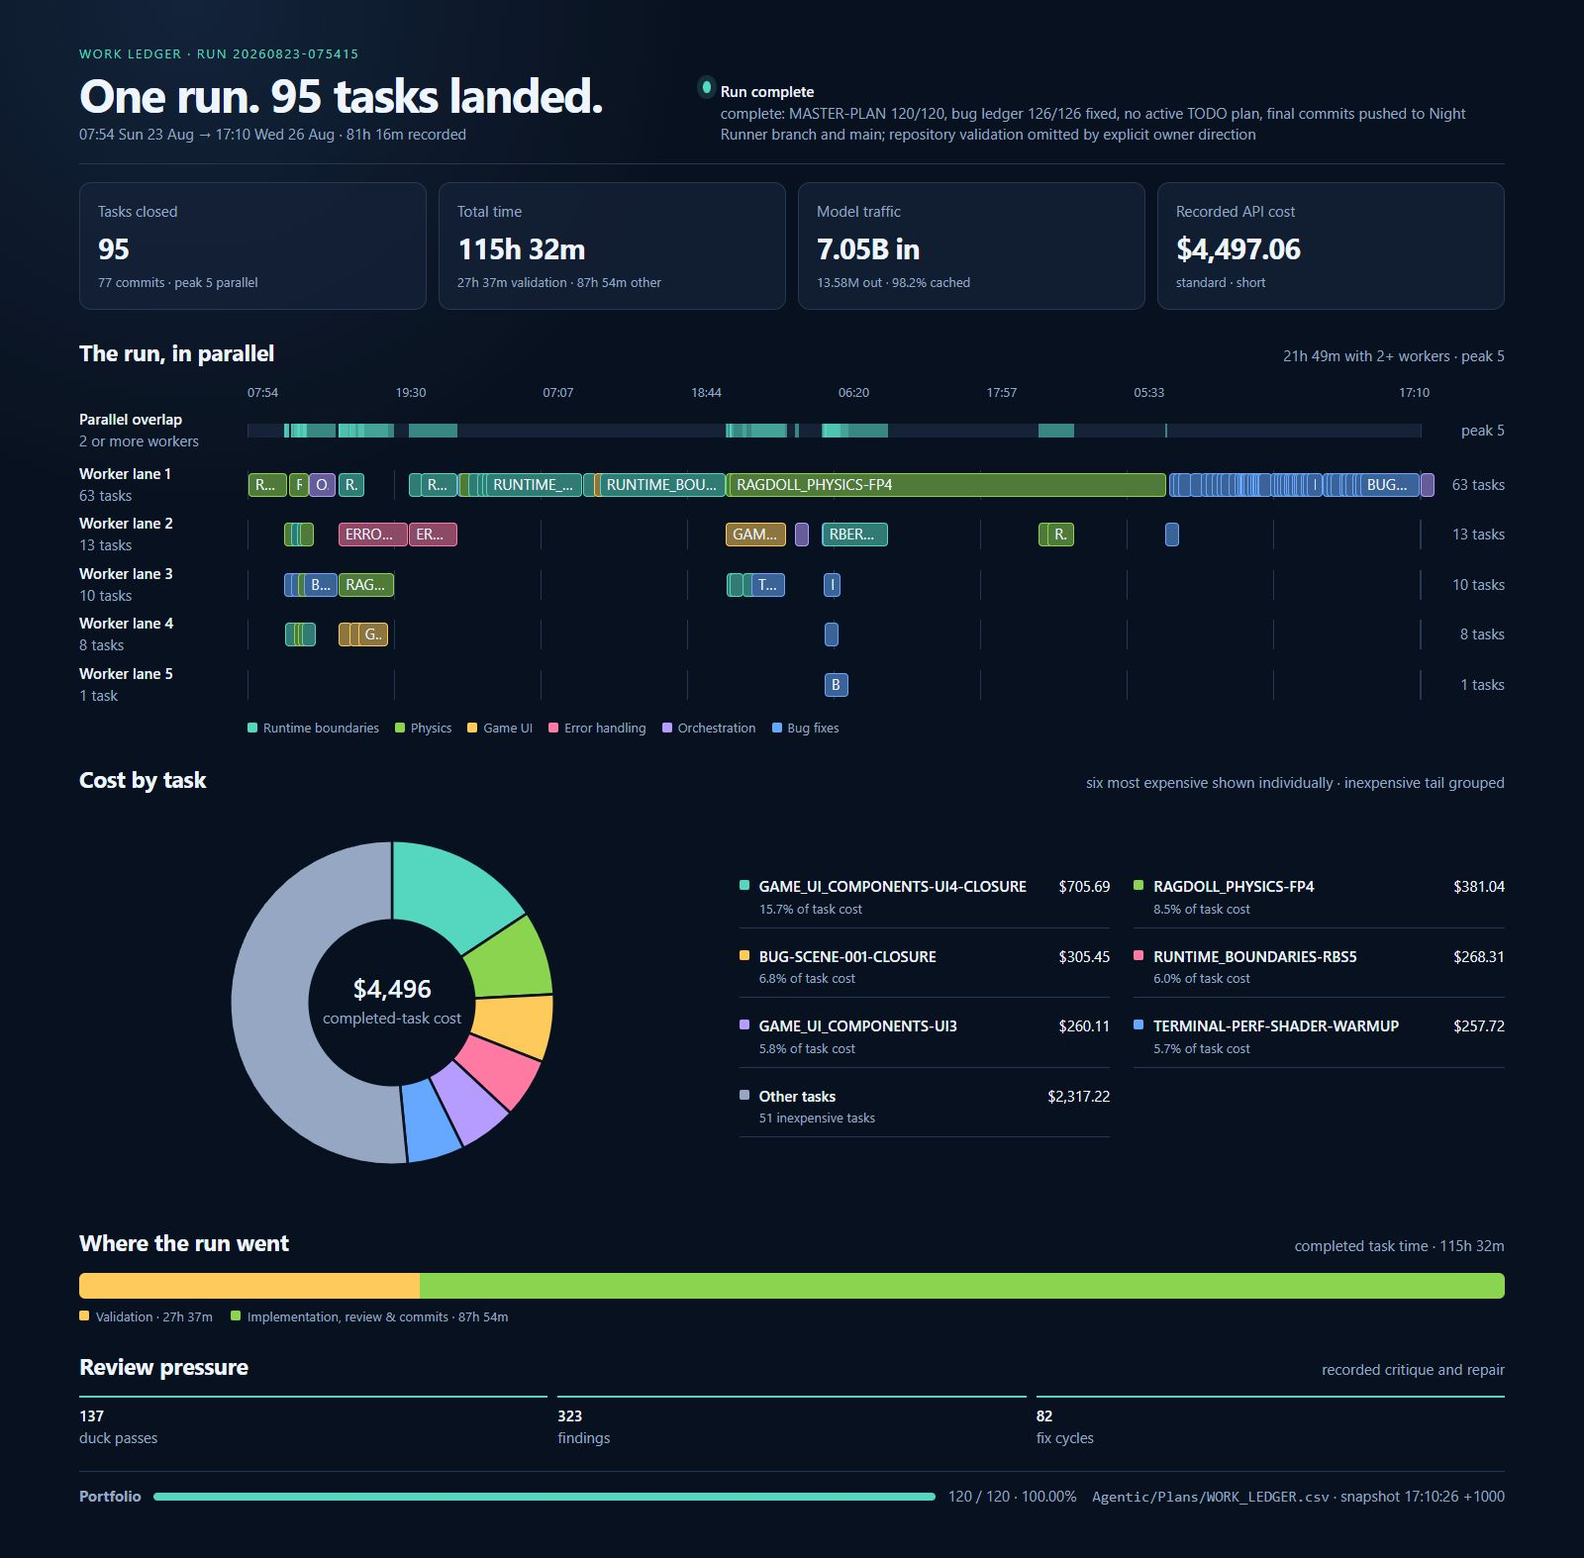
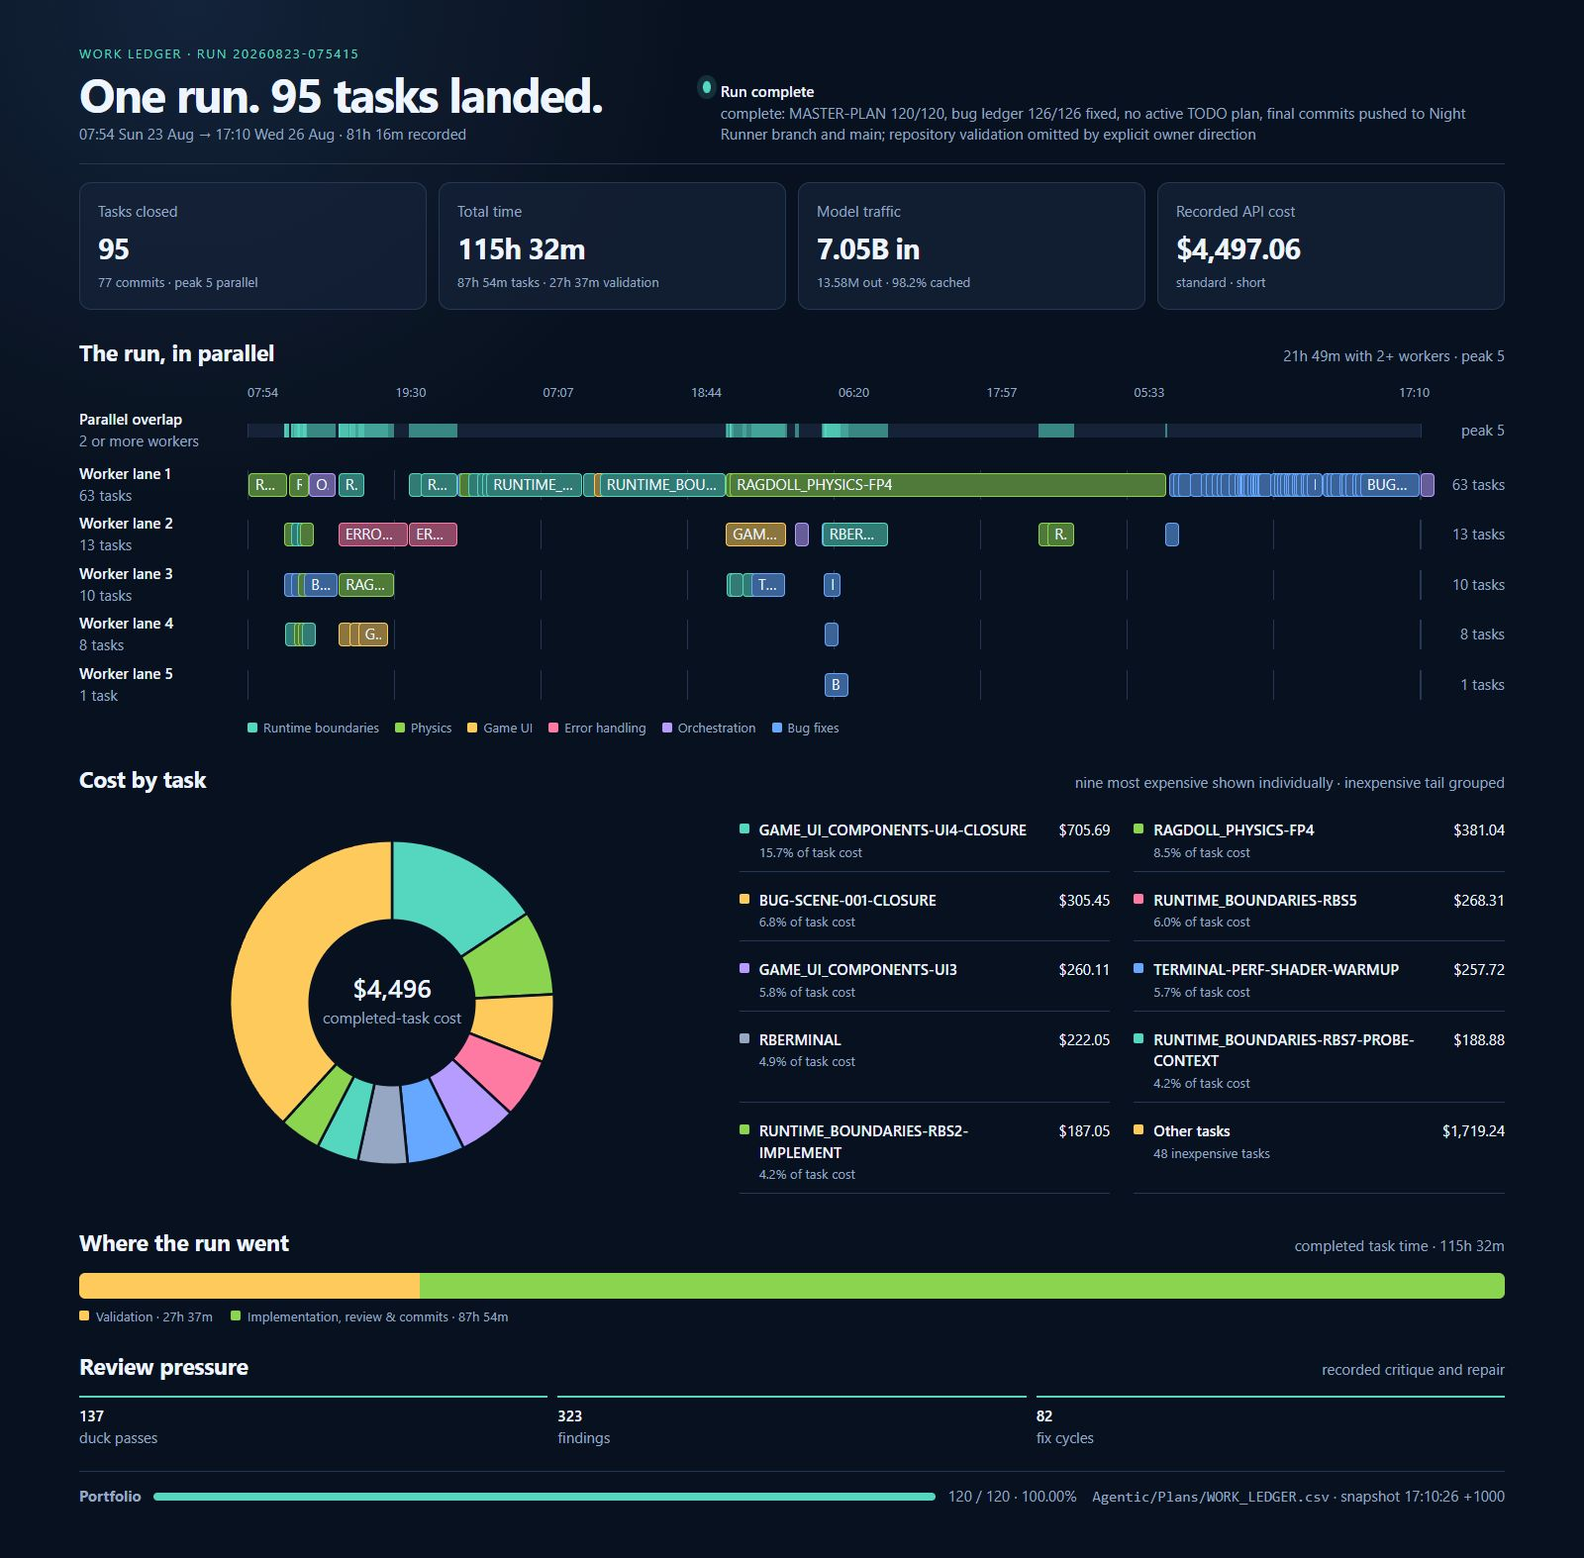
MASTER_PLAN, TASK 120/120 — BALANCE LEDGER COST PIE
Purpose
- Expand the cost breakdown and name the total-time split as tasks versus validation.

Architecture
- Raise the bounded individual cost-task set from six to nine and retain one grouped tail slice.
- Preserve the existing deterministic cost ordering and aggregation logic.

Tests
- No repository or skill validation was run by explicit owner direction.
- Regenerated the HTML and PNG and visually inspected the complete 1600-pixel render.

Determinism
- The ten displayed pie segments derive from the same sorted ledger cost rows with no estimated values.

Risk
- Longer task labels use the existing wrapping behavior; the inspected wide render remains unclipped.

Follow-up
- Future ledger renders show nine named cost tasks plus one grouped tail.

diff --git a/Agentic/Ledgers/nightrunner-25th-aug-26.html b/Agentic/Ledgers/nightrunner-25th-aug-26.html
@@ -121,7 +121,7 @@ h2 { font-size:1.45rem; letter-spacing:-.015em; }
 </header>
 <section class="stats" aria-label="Run totals">
   <div class="card viz-stat"><div class="text-muted">Tasks closed</div><div class="viz-stat-value">95</div><div class="text-small text-muted">77 commits · peak 5 parallel</div></div>
-  <div class="card viz-stat"><div class="text-muted">Total time</div><div class="viz-stat-value">115h 32m</div><div class="text-small text-muted">27h 37m validation · 87h 54m other</div></div>
+  <div class="card viz-stat"><div class="text-muted">Total time</div><div class="viz-stat-value">115h 32m</div><div class="text-small text-muted">87h 54m tasks · 27h 37m validation</div></div>
   <div class="card viz-stat"><div class="text-muted">Model traffic</div><div class="viz-stat-value">7.05B in</div><div class="text-small text-muted">13.58M out · 98.2% cached</div></div>
   <div class="card viz-stat"><div class="text-muted">Recorded API cost</div><div class="viz-stat-value">$4,497.06</div><div class="text-small text-muted">standard · short</div></div>
 </section>
@@ -133,18 +133,18 @@ h2 { font-size:1.45rem; letter-spacing:-.015em; }
   </div>
   <div class="stream-legend text-small"><span><i class="stream-swatch" style="--stream-color:var(--viz-series-1)"></i>Runtime boundaries</span><span><i class="stream-swatch" style="--stream-color:var(--viz-series-2)"></i>Physics</span><span><i class="stream-swatch" style="--stream-color:var(--viz-series-3)"></i>Game UI</span><span><i class="stream-swatch" style="--stream-color:var(--viz-series-4)"></i>Error handling</span><span><i class="stream-swatch" style="--stream-color:var(--viz-series-5)"></i>Orchestration</span><span><i class="stream-swatch" style="--stream-color:var(--viz-series-6)"></i>Bug fixes</span></div>
 </section>
-<section class="cost-section" aria-labelledby="ledger-cost-title"><div class="section-head"><h2 id="ledger-cost-title">Cost by task</h2><span class="muted">six most expensive shown individually · inexpensive tail grouped</span></div>
+<section class="cost-section" aria-labelledby="ledger-cost-title"><div class="section-head"><h2 id="ledger-cost-title">Cost by task</h2><span class="muted">nine most expensive shown individually · inexpensive tail grouped</span></div>
   <div class="cost-visual">
-    <svg class="cost-pie" viewBox="0 0 300 300" role="img" aria-label="Recorded API cost distribution by task"><path d="M 150.000 150.000 L 150.000 24.000 A 126.000 126.000 0 0 1 255.083 80.476 Z" fill="var(--viz-series-1)" data-tooltip="GAME_UI_COMPONENTS-UI4-CLOSURE: $705.69, 15.7%"></path><path d="M 150.000 150.000 L 255.083 80.476 A 126.000 126.000 0 0 1 275.830 143.460 Z" fill="var(--viz-series-2)" data-tooltip="RAGDOLL_PHYSICS-FP4: $381.04, 8.5%"></path><path d="M 150.000 150.000 L 275.830 143.460 A 126.000 126.000 0 0 1 267.245 196.148 Z" fill="var(--viz-series-3)" data-tooltip="BUG-SCENE-001-CLOSURE: $305.45, 6.8%"></path><path d="M 150.000 150.000 L 267.245 196.148 A 126.000 126.000 0 0 1 242.193 235.886 Z" fill="var(--viz-series-4)" data-tooltip="RUNTIME_BOUNDARIES-RBS5: $268.31, 6.0%"></path><path d="M 150.000 150.000 L 242.193 235.886 A 126.000 126.000 0 0 1 205.628 263.055 Z" fill="var(--viz-series-5)" data-tooltip="GAME_UI_COMPONENTS-UI3: $260.11, 5.8%"></path><path d="M 150.000 150.000 L 205.628 263.055 A 126.000 126.000 0 0 1 162.211 275.407 Z" fill="var(--viz-series-6)" data-tooltip="TERMINAL-PERF-SHADER-WARMUP: $257.72, 5.7%"></path><path d="M 150.000 150.000 L 162.211 275.407 A 126.000 126.000 0 1 1 150.000 24.000 Z" fill="var(--muted-foreground)" data-tooltip="Other tasks: $2,317.22, 51.5%"></path>
+    <svg class="cost-pie" viewBox="0 0 300 300" role="img" aria-label="Recorded API cost distribution by task"><path d="M 150.000 150.000 L 150.000 24.000 A 126.000 126.000 0 0 1 255.083 80.476 Z" fill="var(--viz-series-1)" data-tooltip="GAME_UI_COMPONENTS-UI4-CLOSURE: $705.69, 15.7%"></path><path d="M 150.000 150.000 L 255.083 80.476 A 126.000 126.000 0 0 1 275.830 143.460 Z" fill="var(--viz-series-2)" data-tooltip="RAGDOLL_PHYSICS-FP4: $381.04, 8.5%"></path><path d="M 150.000 150.000 L 275.830 143.460 A 126.000 126.000 0 0 1 267.245 196.148 Z" fill="var(--viz-series-3)" data-tooltip="BUG-SCENE-001-CLOSURE: $305.45, 6.8%"></path><path d="M 150.000 150.000 L 267.245 196.148 A 126.000 126.000 0 0 1 242.193 235.886 Z" fill="var(--viz-series-4)" data-tooltip="RUNTIME_BOUNDARIES-RBS5: $268.31, 6.0%"></path><path d="M 150.000 150.000 L 242.193 235.886 A 126.000 126.000 0 0 1 205.628 263.055 Z" fill="var(--viz-series-5)" data-tooltip="GAME_UI_COMPONENTS-UI3: $260.11, 5.8%"></path><path d="M 150.000 150.000 L 205.628 263.055 A 126.000 126.000 0 0 1 162.211 275.407 Z" fill="var(--viz-series-6)" data-tooltip="TERMINAL-PERF-SHADER-WARMUP: $257.72, 5.7%"></path><path d="M 150.000 150.000 L 162.211 275.407 A 126.000 126.000 0 0 1 123.330 273.145 Z" fill="var(--muted-foreground)" data-tooltip="RBERMINAL: $222.05, 4.9%"></path><path d="M 150.000 150.000 L 123.330 273.145 A 126.000 126.000 0 0 1 92.121 261.920 Z" fill="var(--viz-series-1)" data-tooltip="RUNTIME_BOUNDARIES-RBS7-PROBE-CONTEXT: $188.88, 4.2%"></path><path d="M 150.000 150.000 L 92.121 261.920 A 126.000 126.000 0 0 1 65.161 243.158 Z" fill="var(--viz-series-2)" data-tooltip="RUNTIME_BOUNDARIES-RBS2-IMPLEMENT: $187.05, 4.2%"></path><path d="M 150.000 150.000 L 65.161 243.158 A 126.000 126.000 0 0 1 150.000 24.000 Z" fill="var(--viz-series-3)" data-tooltip="Other tasks: $1,719.24, 38.2%"></path>
       <circle cx="150" cy="150" r="64" fill="var(--background)"></circle>
       <text class="pie-total" x="150" y="146">$4,496</text><text class="pie-caption" x="150" y="166">completed-task cost</text>
     </svg>
-    <div class="cost-legend"><div class="cost-item"><i class="stream-swatch" style="--stream-color:var(--viz-series-1)"></i><div><strong>GAME_UI_COMPONENTS-UI4-CLOSURE</strong><span class="text-small text-muted">15.7% of task cost</span></div><div class="money">$705.69</div></div><div class="cost-item"><i class="stream-swatch" style="--stream-color:var(--viz-series-2)"></i><div><strong>RAGDOLL_PHYSICS-FP4</strong><span class="text-small text-muted">8.5% of task cost</span></div><div class="money">$381.04</div></div><div class="cost-item"><i class="stream-swatch" style="--stream-color:var(--viz-series-3)"></i><div><strong>BUG-SCENE-001-CLOSURE</strong><span class="text-small text-muted">6.8% of task cost</span></div><div class="money">$305.45</div></div><div class="cost-item"><i class="stream-swatch" style="--stream-color:var(--viz-series-4)"></i><div><strong>RUNTIME_BOUNDARIES-RBS5</strong><span class="text-small text-muted">6.0% of task cost</span></div><div class="money">$268.31</div></div><div class="cost-item"><i class="stream-swatch" style="--stream-color:var(--viz-series-5)"></i><div><strong>GAME_UI_COMPONENTS-UI3</strong><span class="text-small text-muted">5.8% of task cost</span></div><div class="money">$260.11</div></div><div class="cost-item"><i class="stream-swatch" style="--stream-color:var(--viz-series-6)"></i><div><strong>TERMINAL-PERF-SHADER-WARMUP</strong><span class="text-small text-muted">5.7% of task cost</span></div><div class="money">$257.72</div></div><div class="cost-item"><i class="stream-swatch" style="--stream-color:var(--muted-foreground)"></i><div><strong>Other tasks</strong><span class="text-small text-muted">51 inexpensive tasks</span></div><div class="money">$2,317.22</div></div></div>
+    <div class="cost-legend"><div class="cost-item"><i class="stream-swatch" style="--stream-color:var(--viz-series-1)"></i><div><strong>GAME_UI_COMPONENTS-UI4-CLOSURE</strong><span class="text-small text-muted">15.7% of task cost</span></div><div class="money">$705.69</div></div><div class="cost-item"><i class="stream-swatch" style="--stream-color:var(--viz-series-2)"></i><div><strong>RAGDOLL_PHYSICS-FP4</strong><span class="text-small text-muted">8.5% of task cost</span></div><div class="money">$381.04</div></div><div class="cost-item"><i class="stream-swatch" style="--stream-color:var(--viz-series-3)"></i><div><strong>BUG-SCENE-001-CLOSURE</strong><span class="text-small text-muted">6.8% of task cost</span></div><div class="money">$305.45</div></div><div class="cost-item"><i class="stream-swatch" style="--stream-color:var(--viz-series-4)"></i><div><strong>RUNTIME_BOUNDARIES-RBS5</strong><span class="text-small text-muted">6.0% of task cost</span></div><div class="money">$268.31</div></div><div class="cost-item"><i class="stream-swatch" style="--stream-color:var(--viz-series-5)"></i><div><strong>GAME_UI_COMPONENTS-UI3</strong><span class="text-small text-muted">5.8% of task cost</span></div><div class="money">$260.11</div></div><div class="cost-item"><i class="stream-swatch" style="--stream-color:var(--viz-series-6)"></i><div><strong>TERMINAL-PERF-SHADER-WARMUP</strong><span class="text-small text-muted">5.7% of task cost</span></div><div class="money">$257.72</div></div><div class="cost-item"><i class="stream-swatch" style="--stream-color:var(--muted-foreground)"></i><div><strong>RBERMINAL</strong><span class="text-small text-muted">4.9% of task cost</span></div><div class="money">$222.05</div></div><div class="cost-item"><i class="stream-swatch" style="--stream-color:var(--viz-series-1)"></i><div><strong>RUNTIME_BOUNDARIES-RBS7-PROBE-CONTEXT</strong><span class="text-small text-muted">4.2% of task cost</span></div><div class="money">$188.88</div></div><div class="cost-item"><i class="stream-swatch" style="--stream-color:var(--viz-series-2)"></i><div><strong>RUNTIME_BOUNDARIES-RBS2-IMPLEMENT</strong><span class="text-small text-muted">4.2% of task cost</span></div><div class="money">$187.05</div></div><div class="cost-item"><i class="stream-swatch" style="--stream-color:var(--viz-series-3)"></i><div><strong>Other tasks</strong><span class="text-small text-muted">48 inexpensive tasks</span></div><div class="money">$1,719.24</div></div></div>
   </div>
 </section>
 <section class="effort-section" aria-label="Effort and review details">
   <div><div class="section-head"><h2>Where the run went</h2><span class="muted">completed task time · 115h 32m</span></div>
-    <div class="allocation" style="--validation:23.906%" role="img" aria-label="27h 37m validation and 87h 54m other task work"><span class="validation"></span><span class="other"></span></div>
+    <div class="allocation" style="--validation:23.906%" role="img" aria-label="87h 54m task work and 27h 37m validation"><span class="validation"></span><span class="other"></span></div>
     <div class="legend text-small"><span><i class="swatch"></i>Validation · 27h 37m</span><span><i class="swatch other"></i>Implementation, review &amp; commits · 87h 54m</span></div>
     <div class="section-head" style="margin-top:24px"><h2>Review pressure</h2><span class="muted">recorded critique and repair</span></div>
     <div class="review"><div><strong>137</strong><span class="muted">duck passes</span></div><div><strong>323</strong><span class="muted">findings</span></div><div><strong>82</strong><span class="muted">fix cycles</span></div></div>

diff --git a/Agentic/Skills/render-work-ledger/scripts/render_work_ledger.py b/Agentic/Skills/render-work-ledger/scripts/render_work_ledger.py
@@ -201,7 +201,7 @@ def task_stream(task_id: str) -> str:
     return "Bug fixes"
 
 
-def group_task_costs(tasks: Iterable[Task], *, individual_limit: int = 6) -> list[tuple[str, float, int]]:
+def group_task_costs(tasks: Iterable[Task], *, individual_limit: int = 9) -> list[tuple[str, float, int]]:
     """Keep the expensive tasks legible and combine the long cheap tail."""
     paid = sorted((task for task in tasks if task.cost_usd > 0.0), key=lambda task: (-task.cost_usd, task.task_id))
     groups = [(task_code(task.task_id), task.cost_usd, 1) for task in paid[:individual_limit]]
@@ -470,7 +470,7 @@ def build_fragment(ledger: Path, goal: dict[str, str], tasks: list[Task]) -> tup
 </header>
 <section class="stats" aria-label="Run totals">
   <div class="card viz-stat"><div class="text-muted">Tasks closed</div><div class="viz-stat-value">{len(completed)}</div><div class="text-small text-muted">{commits} commits · peak {parallel.peak_concurrency} parallel</div></div>
-  <div class="card viz-stat"><div class="text-muted">Total time</div><div class="viz-stat-value">{format_duration(completed_elapsed, compact=True)}</div><div class="text-small text-muted">{format_duration(validation_seconds, compact=True)} validation · {format_duration(other_seconds, compact=True)} other</div></div>
+  <div class="card viz-stat"><div class="text-muted">Total time</div><div class="viz-stat-value">{format_duration(completed_elapsed, compact=True)}</div><div class="text-small text-muted">{format_duration(other_seconds, compact=True)} tasks · {format_duration(validation_seconds, compact=True)} validation</div></div>
   <div class="card viz-stat"><div class="text-muted">Model traffic</div><div class="viz-stat-value">{compact_number(goal_input)} in</div><div class="text-small text-muted">{compact_number(goal_output)} out · {cache_percent:.1f}% cached</div></div>
   <div class="card viz-stat"><div class="text-muted">Recorded API cost</div><div class="viz-stat-value">${goal_cost:,.2f}</div><div class="text-small text-muted">{esc(pricing or 'ledger pricing basis')}</div></div>
 </section>
@@ -482,7 +482,7 @@ def build_fragment(ledger: Path, goal: dict[str, str], tasks: list[Task]) -> tup
   </div>
   <div class="stream-legend text-small">{stream_legend}</div>
 </section>
-<section class="cost-section" aria-labelledby="ledger-cost-title"><div class="section-head"><h2 id="ledger-cost-title">Cost by task</h2><span class="muted">six most expensive shown individually · inexpensive tail grouped</span></div>
+<section class="cost-section" aria-labelledby="ledger-cost-title"><div class="section-head"><h2 id="ledger-cost-title">Cost by task</h2><span class="muted">nine most expensive shown individually · inexpensive tail grouped</span></div>
   <div class="cost-visual">
     <svg class="cost-pie" viewBox="0 0 300 300" role="img" aria-label="Recorded API cost distribution by task">{''.join(pie_shapes)}
       <circle cx="150" cy="150" r="64" fill="var(--background)"></circle>
@@ -493,7 +493,7 @@ def build_fragment(ledger: Path, goal: dict[str, str], tasks: list[Task]) -> tup
 </section>
 <section class="effort-section" aria-label="Effort and review details">
   <div><div class="section-head"><h2>Where the run went</h2><span class="muted">completed task time · {format_duration(completed_elapsed, compact=True)}</span></div>
-    <div class="allocation" style="--validation:{validation_percent:.3f}%" role="img" aria-label="{format_duration(validation_seconds, compact=True)} validation and {format_duration(other_seconds, compact=True)} other task work"><span class="validation"></span><span class="other"></span></div>
+    <div class="allocation" style="--validation:{validation_percent:.3f}%" role="img" aria-label="{format_duration(other_seconds, compact=True)} task work and {format_duration(validation_seconds, compact=True)} validation"><span class="validation"></span><span class="other"></span></div>
     <div class="legend text-small"><span><i class="swatch"></i>Validation · {format_duration(validation_seconds, compact=True)}</span><span><i class="swatch other"></i>Implementation, review &amp; commits · {format_duration(other_seconds, compact=True)}</span></div>
     <div class="section-head" style="margin-top:24px"><h2>Review pressure</h2><span class="muted">recorded critique and repair</span></div>
     <div class="review"><div><strong>{duck_passes}</strong><span class="muted">duck passes</span></div><div><strong>{findings}</strong><span class="muted">findings</span></div><div><strong>{fix_cycles}</strong><span class="muted">fix cycles</span></div></div>
@@ -641,7 +641,7 @@ def self_test() -> None:
         render(ledger, standalone_output, standalone=True)
         standalone_rendered = standalone_output.read_text(encoding="utf-8")
         _, parsed_tasks = load_run(ledger)
-        cost_fixture = [replace(parsed_tasks[0], task_id=f"COST_PLAN-T{index}", cost_usd=float(index + 1)) for index in range(8)]
+        cost_fixture = [replace(parsed_tasks[0], task_id=f"COST_PLAN-T{index}", cost_usd=float(index + 1)) for index in range(12)]
         grouped_costs = group_task_costs(cost_fixture)
         checks = [
             summary["run_id"] == "test-run",
@@ -663,15 +663,15 @@ def self_test() -> None:
             "90.0% cached" in rendered,
             "Total time" in rendered,
             "2h 00m" in rendered,
-            "0h 30m validation · 1h 30m other" in rendered,
+            "1h 30m tasks · 0h 30m validation" in rendered,
             standalone_rendered.startswith("<!doctype html>"),
             '<meta charset="utf-8">' in standalone_rendered,
             "--viz-series-6:#66a8ff" in standalone_rendered,
             "Close &lt;unsafe&gt; task" in standalone_rendered,
-            len(grouped_costs) == 7,
+            len(grouped_costs) == 10,
             grouped_costs[-1][0] == "Other tasks",
-            grouped_costs[-1][2] == 2,
-            abs(sum(cost for _, cost, _ in grouped_costs) - 36.0) < 0.000001,
+            grouped_costs[-1][2] == 3,
+            abs(sum(cost for _, cost, _ in grouped_costs) - 78.0) < 0.000001,
         ]
         if not all(checks):
             raise AssertionError("Self-test output did not preserve the expected ledger contract.")

diff --git a/Agentic/Skills/render-work-ledger/SKILL.md b/Agentic/Skills/render-work-ledger/SKILL.md
@@ -56,10 +56,10 @@ The generator owns:
 - exact task timing, interval-graph worker lanes, proportional clock placement,
   overlap duration, and peak concurrency;
 - goal and completed-task token/cost totals;
-- a bounded task-cost pie that labels the six most expensive tasks and groups
+- a bounded task-cost pie that labels the nine most expensive tasks and groups
   the inexpensive tail into one honest aggregate;
 - cached-input ratio;
-- total completed task time with its validation-versus-other split;
+- total completed task time with its task-work-versus-validation split;
 - rubber-duck passes, findings, and fix cycles;
 - commit count and portfolio progress;
 - 32-bit Windows CSV field size limit (`csv.field_size_limit(2147483647)`) to safely parse large base64-encoded state payloads; and
